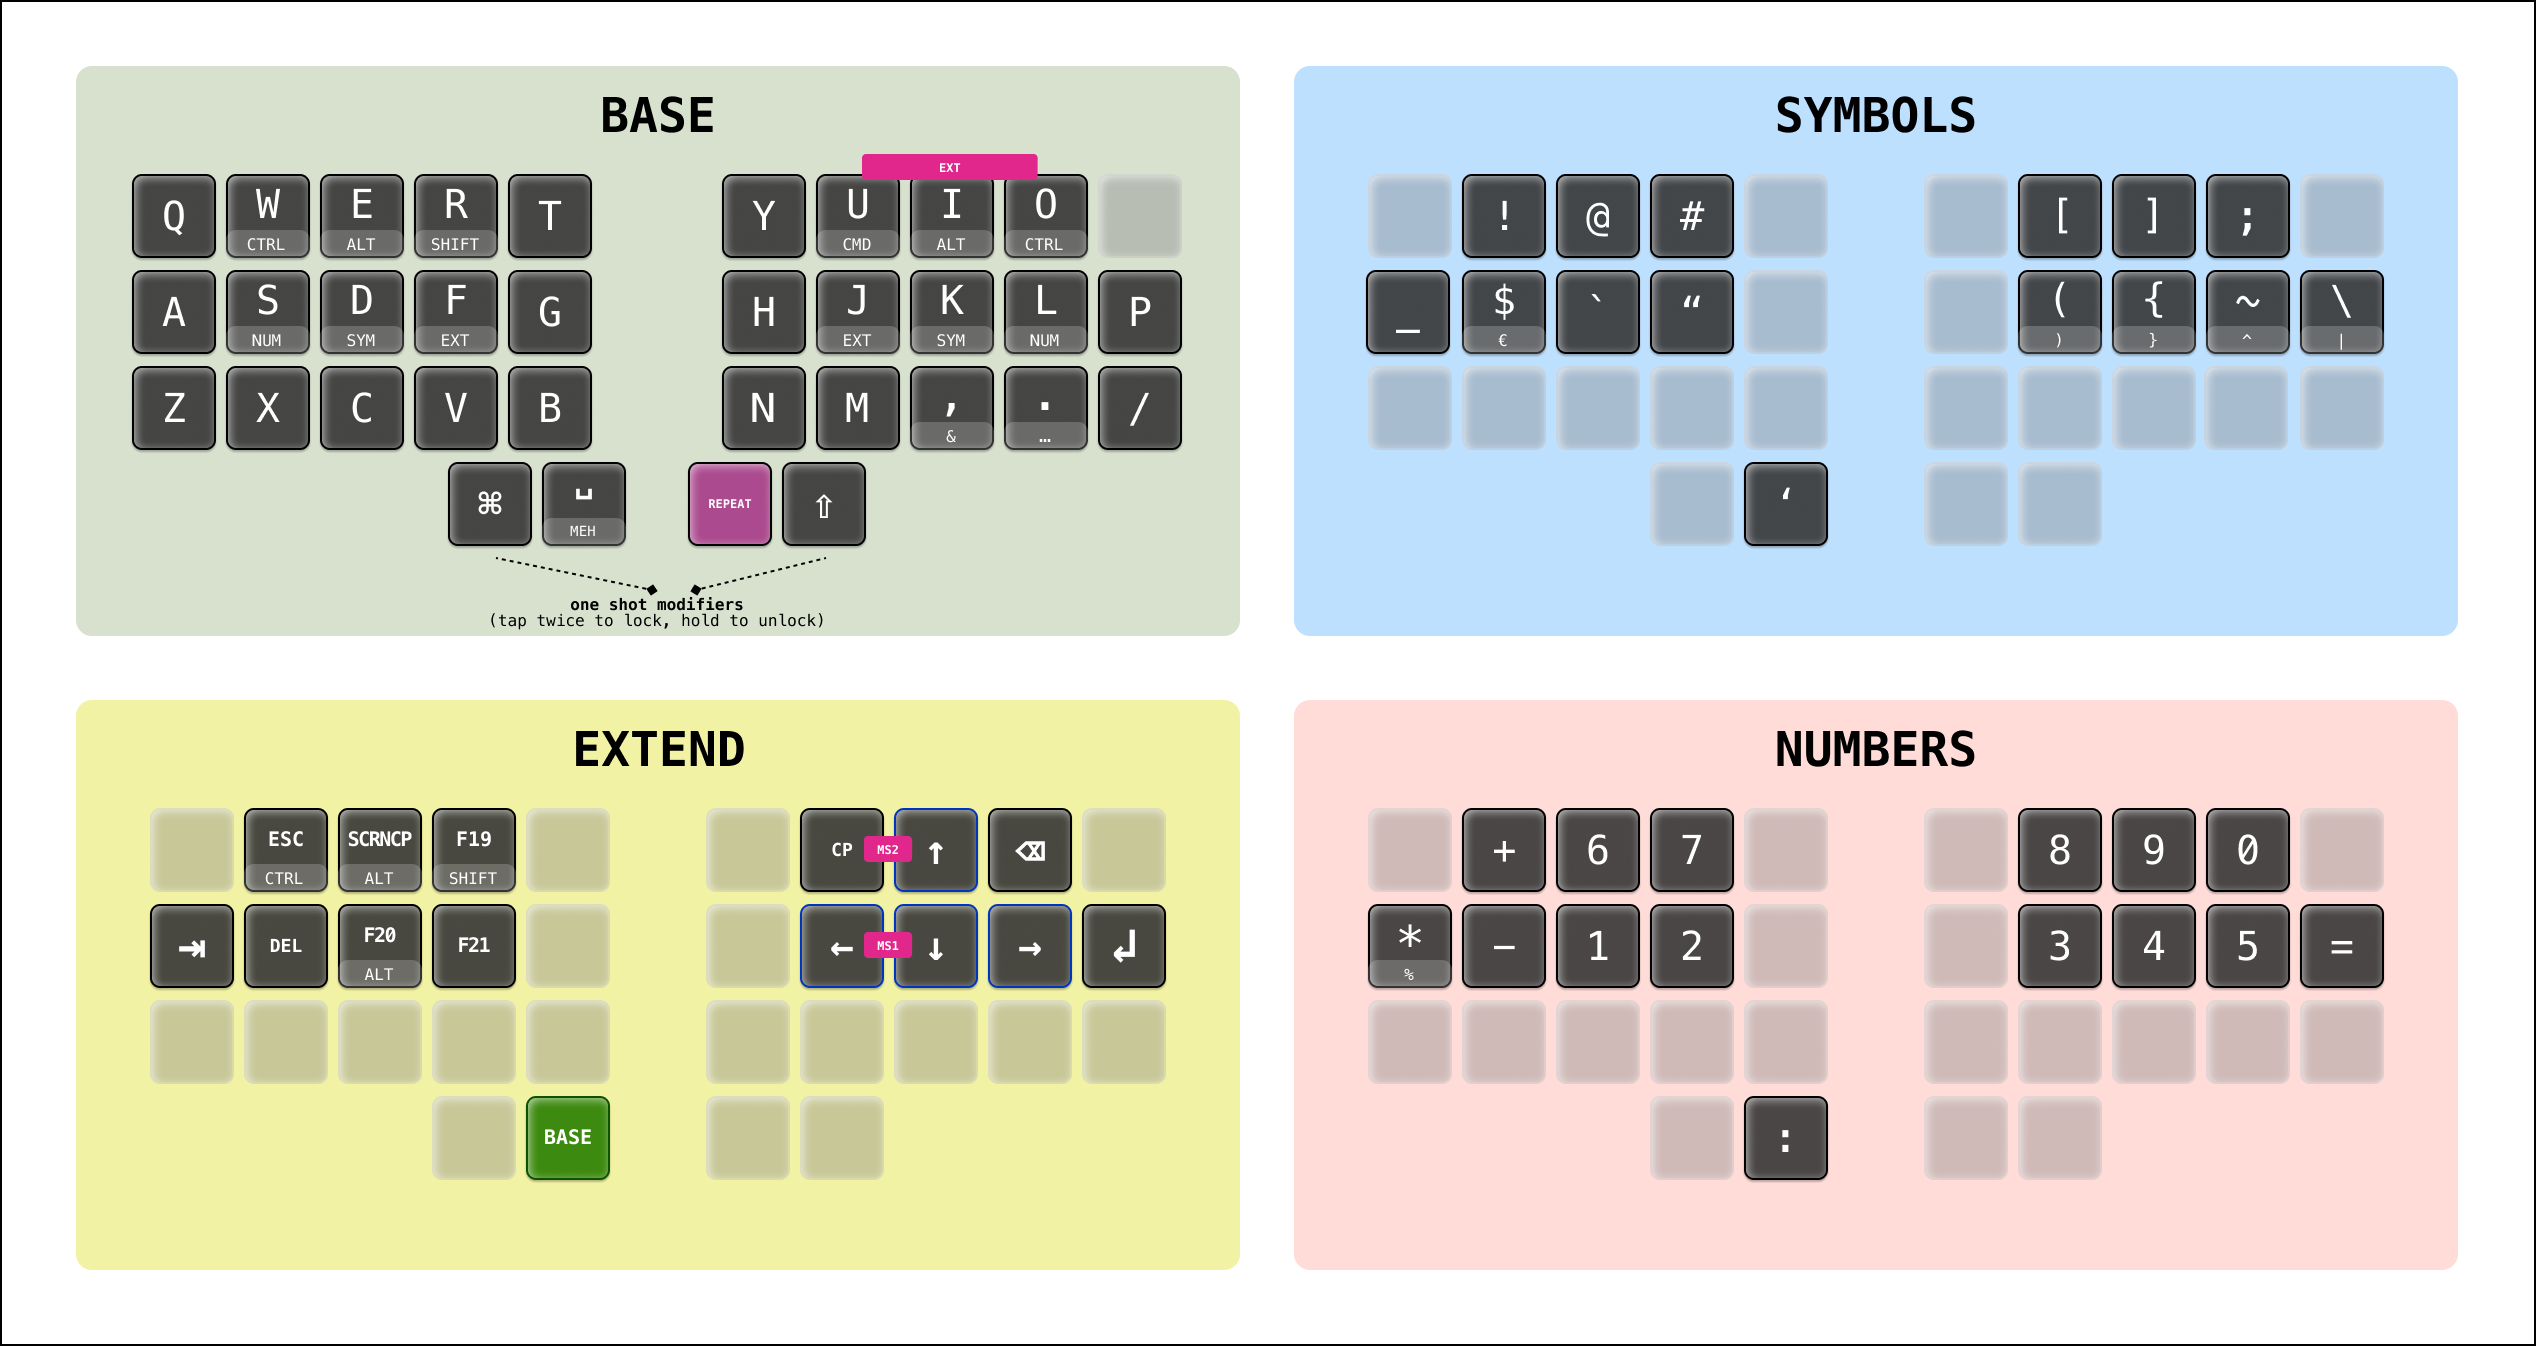
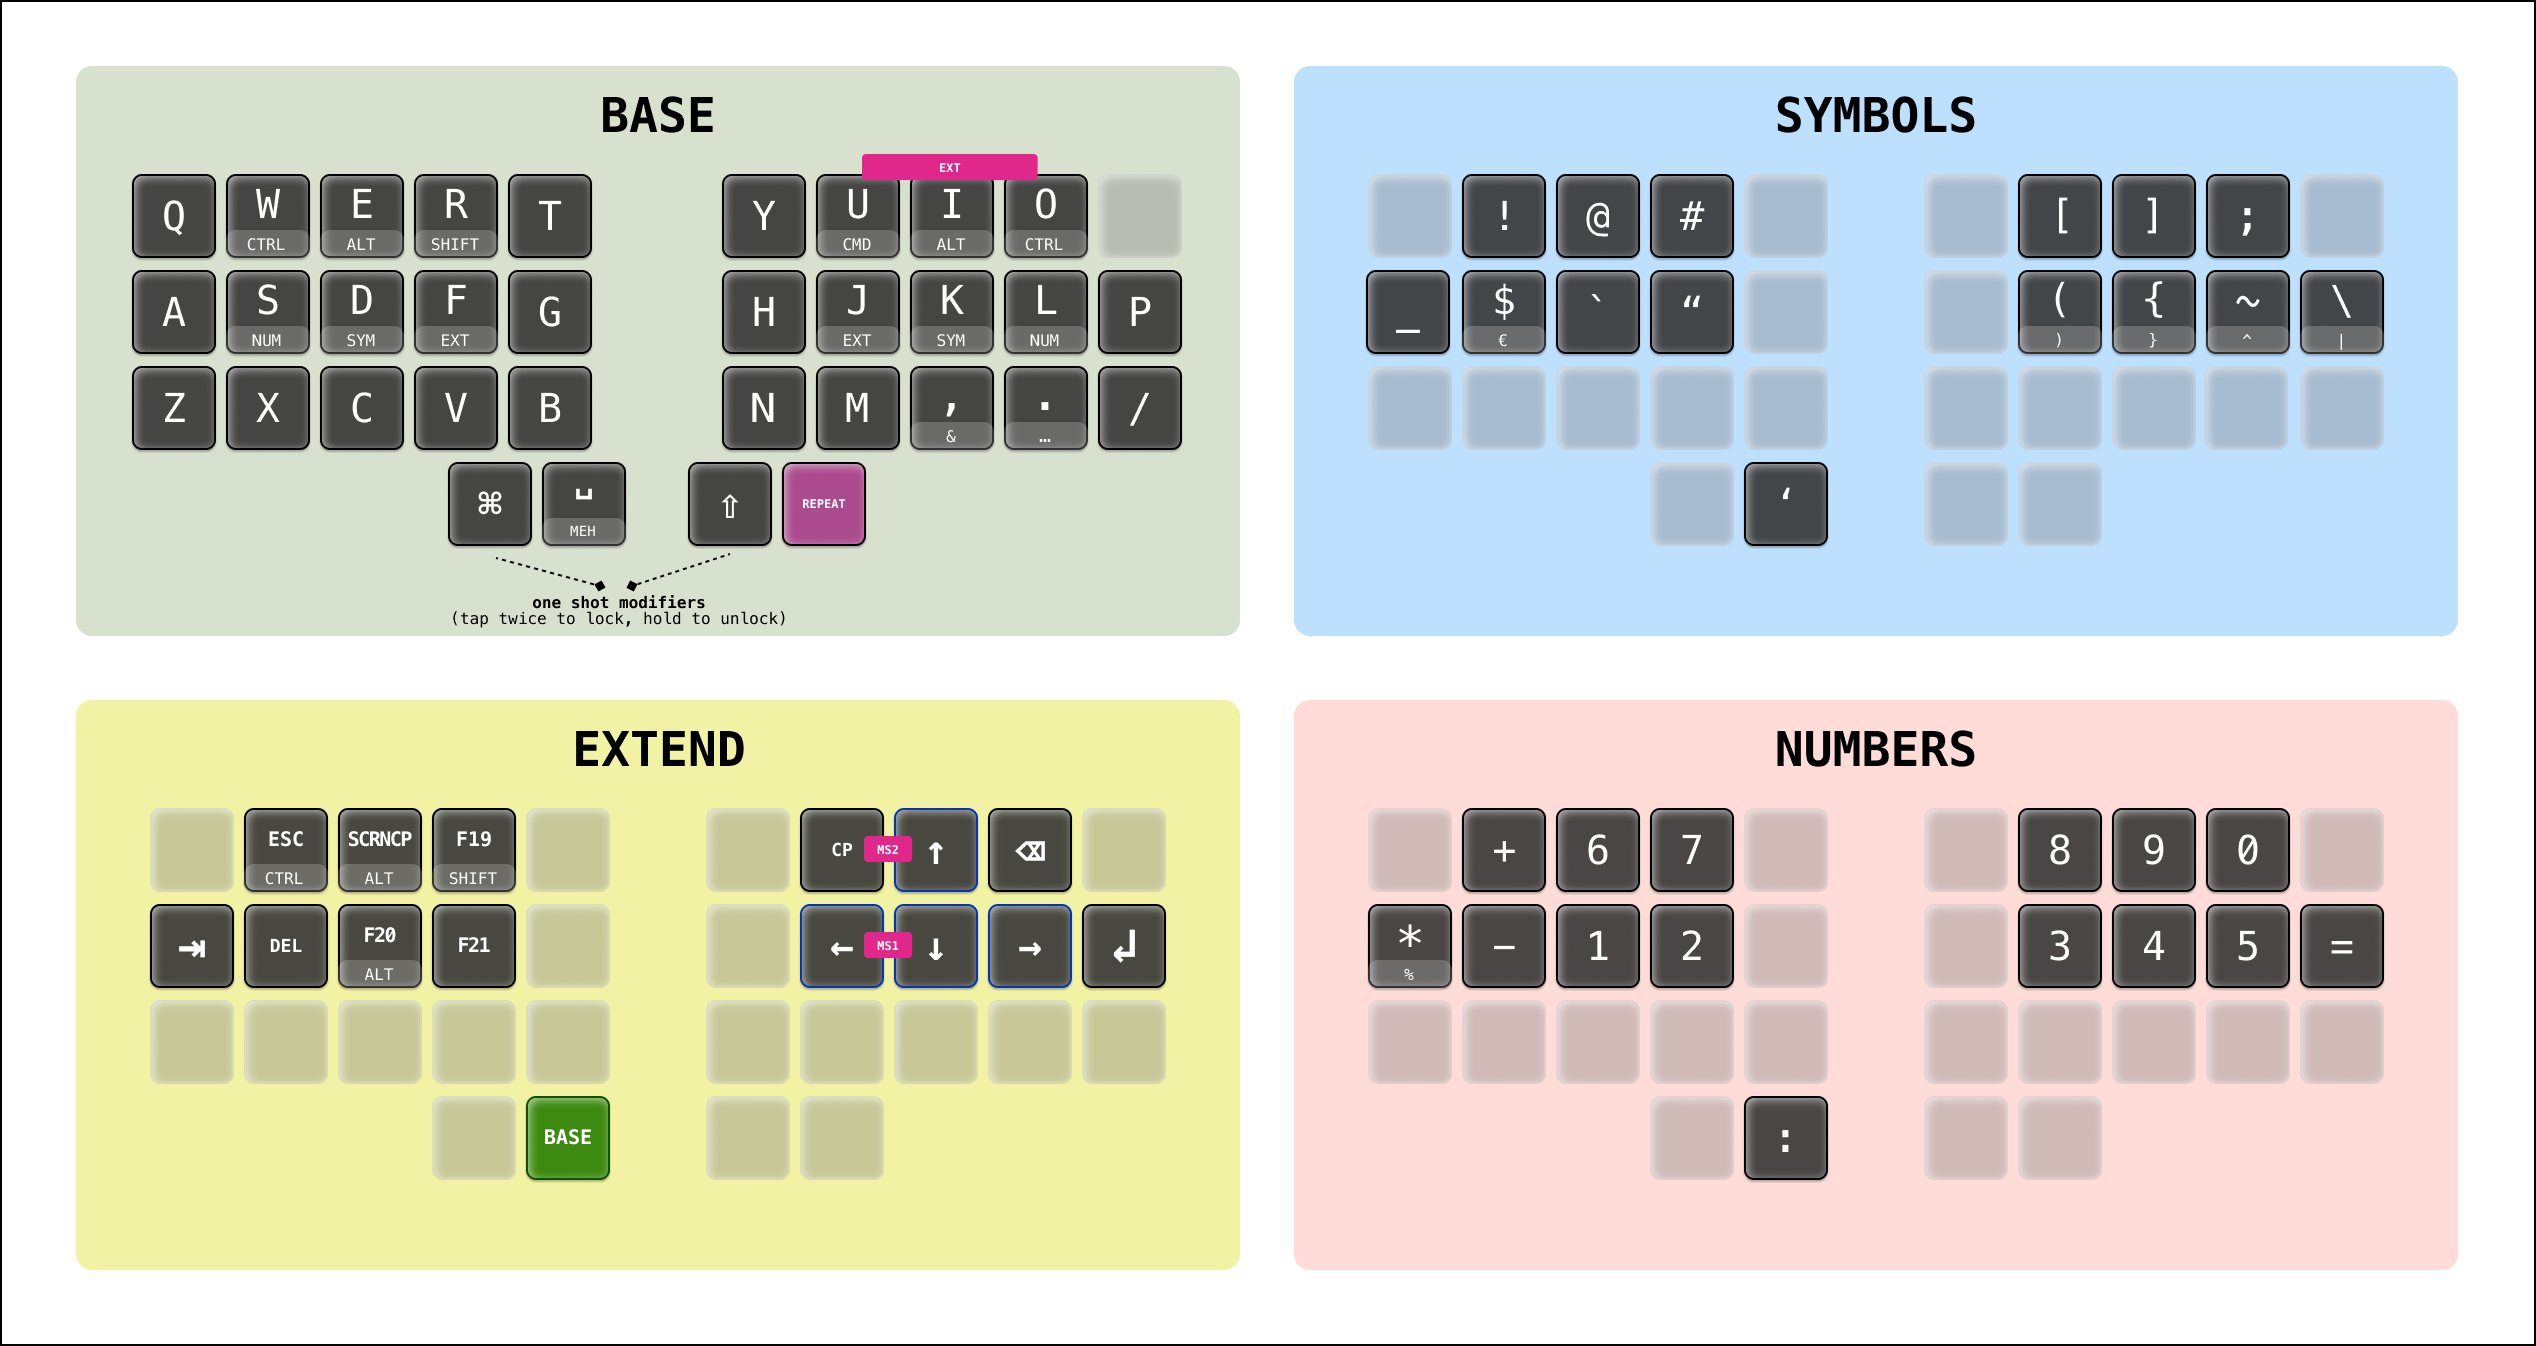
swapped shift right thumb

Changed region(s): [[0.2492, 0.3432, 0.3427, 0.4056], [0.1869, 0.4368, 0.3115, 0.4681]]

diff --git a/totem/qweighteen.c b/totem/qweighteen.c
@@ -66,7 +66,6 @@ combo_t key_combos[] = {
 #define KR_0_3_3 KC_C
 #define KR_0_3_4 KC_V
 #define KR_0_3_5 KC_B
-
 #define KR_0_3_6 KC_N
 #define KR_0_3_7 KC_M
 #define KR_0_3_8 KC_COMM_AMP
@@ -79,8 +78,8 @@ combo_t key_combos[] = {
 #define KR_0_4_2 OSM(MOD_LGUI)
 #define KR_0_4_3 MEH_T(KC_SPACE)
 
-#define KR_0_4_4 REPEAT
-#define KR_0_4_5 OSM(MOD_LSFT)
+#define KR_0_4_4 OSM(MOD_LSFT)
+#define KR_0_4_5 KC_F19
 #define KR_0_4_6 CW_TOGG
 
 // ############################################

diff --git a/totem/keymap.c b/totem/keymap.c
@@ -7,8 +7,8 @@
 #include "microhacks.c"
 #include "qweighteen.c"
 
-#define KR_0_EXTRAL KC_NO
-#define KR_0_EXTRAR KC_NO
+#define KR_0_EXTRAL KC_F17
+#define KR_0_EXTRAR REPEAT 
 
 const uint16_t PROGMEM keymaps[][MATRIX_ROWS][MATRIX_COLS] = {
 

diff --git a/README.md b/README.md
@@ -76,3 +76,7 @@ Symlink the config directories in the right place. Examples:
 ### Show invisible files in Finder
 
 Hold down the Command, Shift and Period keys: `cmd + shift + .`
+
+### Remove useless previews from icons in Finder
+
+`defaults write com.apple.finder  QLInlinePreviewMinimumSupportedSize -int 512`
